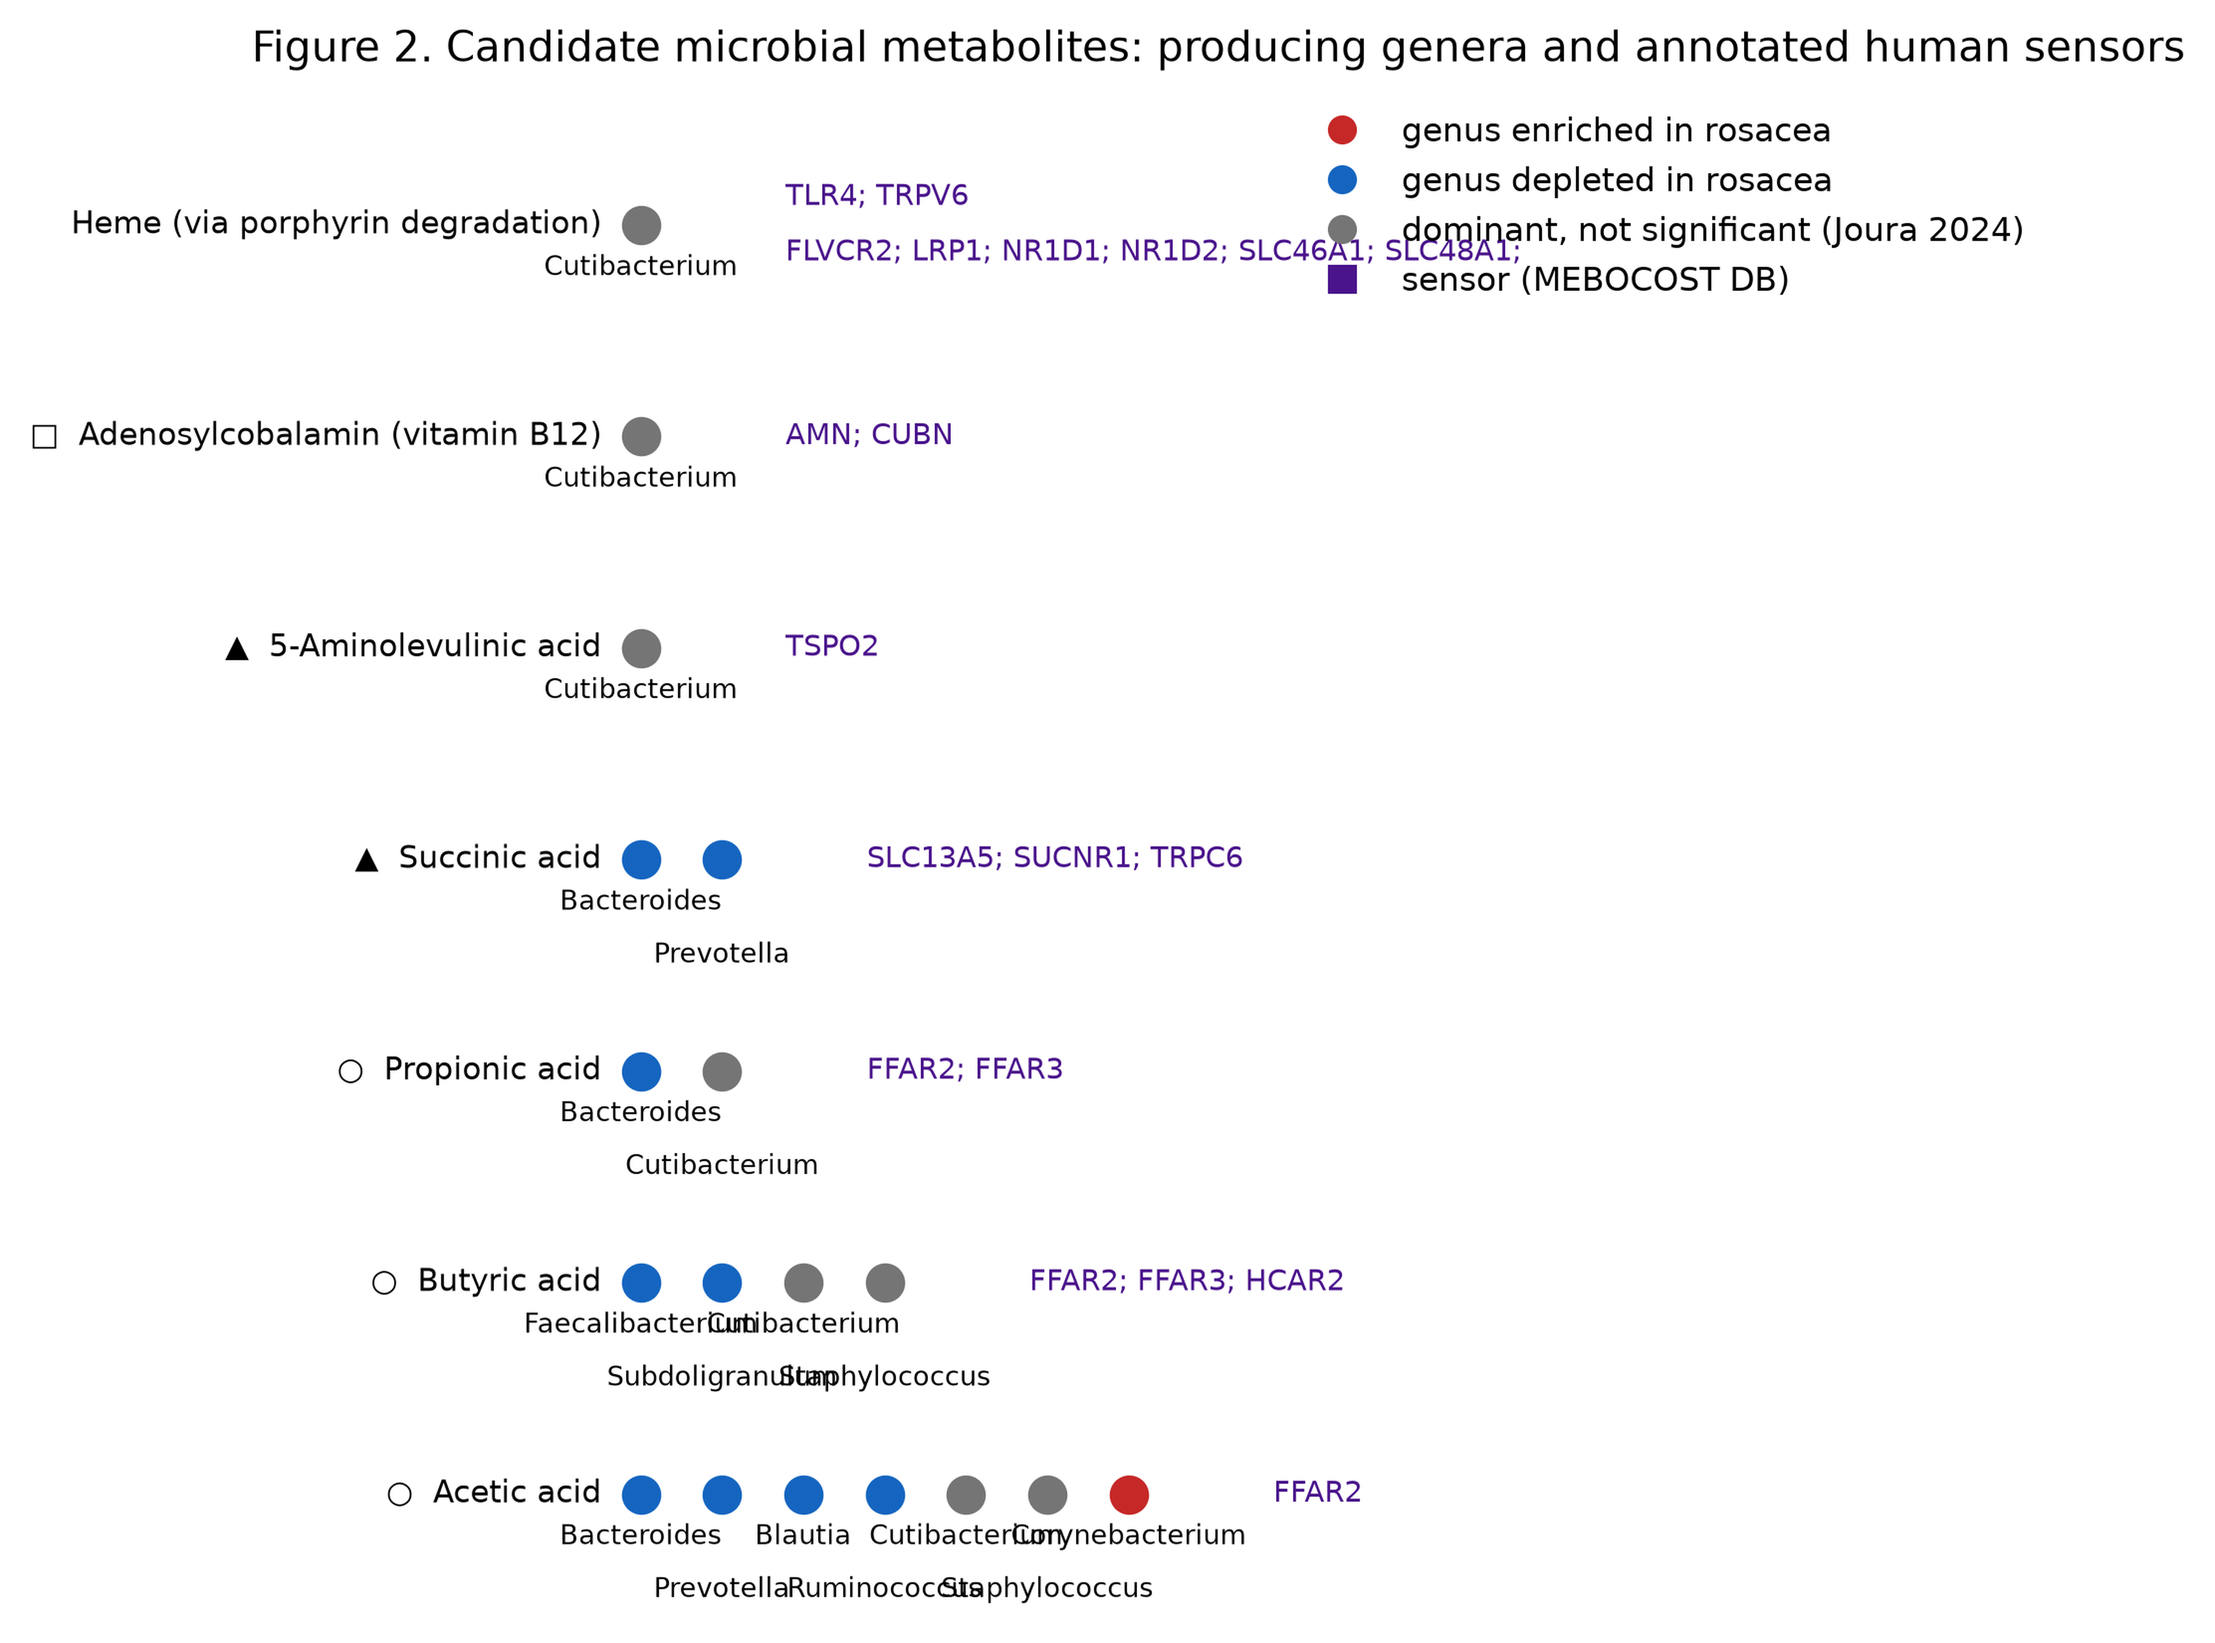
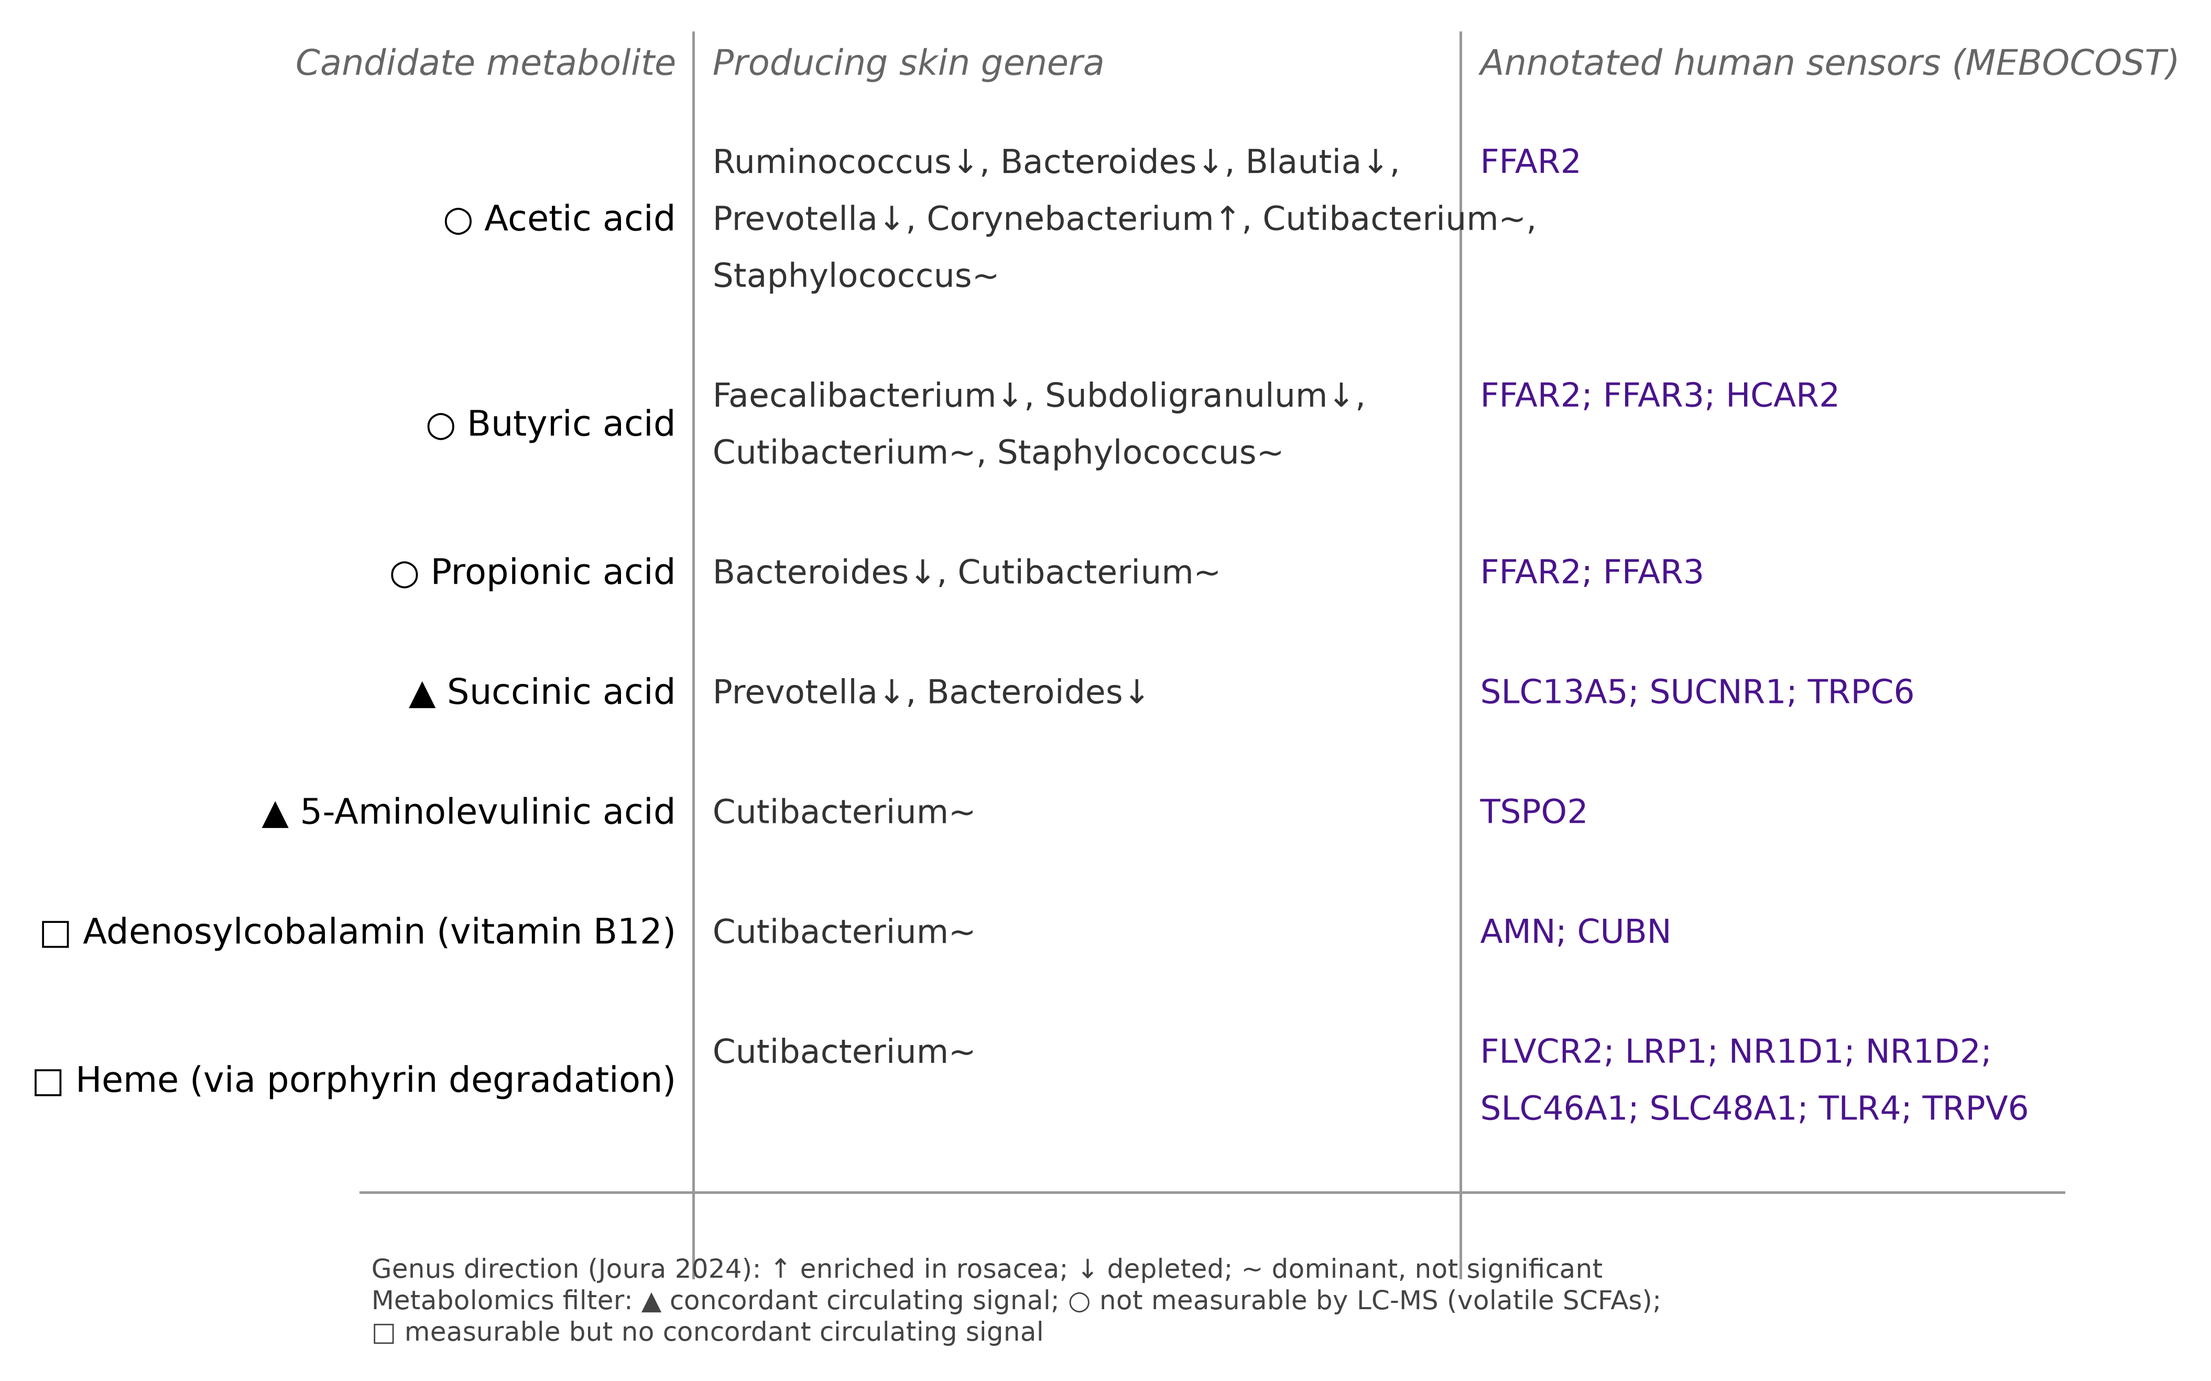
Fig2 text-flow table layout; Fig3 4pt labels; PCoA exhaustive repel

diff --git a/scripts/figures/fig3_candidates.py b/scripts/figures/fig3_candidates.py
@@ -1,85 +1,77 @@
 #!/usr/bin/env python3
-"""fig3_candidates.py — Figure 3: candidate microbial metabolites -> sensors, per producing genus
-Data: output/m2_microbiome/genus_metabolite_sensor_evidence.tsv (all PMIDs verified)
+"""fig3_candidates.py — Figure 2: candidate microbial metabolites -> genera -> sensors.
+Text-flow layout: genera and sensors are wrapped text blocks (arrows encode
+differential direction), so overlaps are structurally impossible.
 """
 import matplotlib
 matplotlib.use("Agg")
 import matplotlib.pyplot as plt
-import csv
+import csv, textwrap
 
 rows = list(csv.DictReader(open("output/m2_microbiome/genus_metabolite_sensor_evidence.tsv"), delimiter="\t"))
 rows = [r for r in rows if r["metabolite_sensors_MEBOCOST"]]
-
-# direction colors for genera
-dir_color = {"up": "#c62828", "down": "#1565c0", "n.s.": "#757575"}
-genus_dir = {}
-for r in rows:
-    genus_dir[r["genus"]] = r["genus_direction_Joura2024"]
-
-# structure: metabolite -> (sensors, genera)
+genus_dir = {r["genus"]: r["genus_direction_Joura2024"] for r in rows}
 mets = {}
 for r in rows:
-    m = r["metabolite"]
-    mets.setdefault(m, {"sensors": set(), "genera": {}})
-    mets[m]["sensors"].add(r["metabolite_sensors_MEBOCOST"])
-    mets[m]["genera"].setdefault(r["genus"], r["genus_direction_Joura2024"])
+    mets.setdefault(r["metabolite"], {"sensors": set(), "genera": set()})
+    mets[r["metabolite"]]["sensors"].add(r["metabolite_sensors_MEBOCOST"])
+    mets[r["metabolite"]]["genera"].add(r["genus"])
+
+filter_status = {
+    "Acetic acid": ("○", "not measurable (volatile SCFA)"),
+    "Propionic acid": ("○", "not measurable (volatile SCFA)"),
+    "Butyric acid": ("○", "not measurable (volatile SCFA)"),
+    "Succinic acid": ("▲", "up in rosacea serum (Li 2025, log2FC = 0.50, P = 1e-4)"),
+    "5-Aminolevulinic acid": ("▲", "up in PPR plasma (Zhang 2025)"),
+    "Heme (via porphyrin degradation)": ("□", "no concordant circulating signal"),
+    "Adenosylcobalamin (vitamin B12)": ("□", "no concordant circulating signal"),
+}
+arrow_sym = {"up": "↑", "down": "↓", "n.s.": "~"}
 
 order = sorted(mets, key=lambda m: -len(mets[m]["genera"]))
 
-# metabolomics-filter status per candidate (per R3 comment)
-# ▲ concordant circulating signal; ○ not measurable by untargeted LC-MS (volatile SCFA); □ measurable, no concordant signal
-filter_status = {
-    "Acetic acid": ("\u25cb", "not measurable (volatile SCFA)"),
-    "Propionic acid": ("\u25cb", "not measurable (volatile SCFA)"),
-    "Butyric acid": ("\u25cb", "not measurable (volatile SCFA)"),
-    "Succinic acid": ("\u25b2", "up in rosacea serum (Li 2025, log2FC = 0.50, P = 1e-4)"),
-    "5-Aminolevulinic acid": ("\u25b2", "up in PPR plasma (Zhang 2025)"),
-    "Heme": ("\u25a1", "no concordant circulating signal"),
-    "Adenosylcobalamin (vitamin B12)": ("\u25a1", "no concordant circulating signal"),
-}
-
-fig, ax = plt.subplots(figsize=(7.2, 5.6), dpi=600)
-y = 0
-yt = {}
+# compute layout first
+line_h = 0.235
+rows_meta = []
 for m in order:
-    yt[m] = y
-    sym = filter_status.get(m, ("", ""))[0]
-    ax.text(-0.55, y, f"{sym}  {m}", ha="right", va="center", fontsize=7.5)
     gen = sorted(mets[m]["genera"], key=lambda g: -genus_dir[g].count("d"))
-    x = 0
-    for i, g in enumerate(gen):
-        d = mets[m]["genera"][g]
-        ax.scatter(x, y, s=100, color=dir_color[d], zorder=3,
-                   edgecolors="white", linewidths=0.5)
-        # staggered two-level horizontal labels, centered under each circle
-        lvl = -0.22 if i % 2 == 0 else -0.62
-        ax.text(x, y + lvl, g, ha="center", va="top", fontsize=6.5)
-        x += 1.15
-    sens = sorted(mets[m]["sensors"])
-    import textwrap
-    sens_label = "; ".join(sens)
-    wrapped = textwrap.wrap(sens_label, width=46)
-    xs = x + 0.9
-    n = len(wrapped)
-    for i, line in enumerate(wrapped):
-        off = (i - (n - 1) / 2) * 0.42
-        ax.text(xs, y + off, line, fontsize=7, color="#4a148c", va="center", ha="left")
-    y += 1.6
+    gen_str = ", ".join(f"{g}{arrow_sym[genus_dir[g]]}" for g in gen)
+    sens_str = "; ".join(sorted(mets[m]["sensors"]))
+    gen_lines = textwrap.wrap(gen_str, width=50)
+    sen_lines = textwrap.wrap(sens_str, width=32)
+    n = max(len(gen_lines), len(sen_lines), 1)
+    rows_meta.append((m, gen_lines, sen_lines, n))
+total = sum(n*line_h + 0.26 for m,_,_,n in rows_meta) + 0.75  # header + legend
+fig, ax = plt.subplots(figsize=(7.0, total), dpi=600)
+ax.set_xlim(0, 7.0); ax.set_ylim(0, total); ax.axis("off")
 
-ax.set_ylim(-0.9, y - 0.55)
-ax.set_xlim(-5.5, 20)
-ax.axis("off")
-# legend
-for lab, c in [("genus up in rosacea", "#c62828"), ("genus down in rosacea", "#1565c0"),
-               ("dominant, not significant", "#757575")]:
-    pass
-import matplotlib.lines as mlines
-h1 = mlines.Line2D([], [], marker="o", ls="", color="#c62828", label="genus enriched in rosacea")
-h2 = mlines.Line2D([], [], marker="o", ls="", color="#1565c0", label="genus depleted in rosacea")
-h3 = mlines.Line2D([], [], marker="o", ls="", color="#757575", label="dominant, not significant (Joura 2024)")
-h4 = mlines.Line2D([], [], marker="s", ls="", color="#4a148c", label="sensor (MEBOCOST DB)")
-ax.legend(handles=[h1, h2, h3, h4], loc="upper right", fontsize=8, frameon=False)
-ax.set_title("Figure 2. Candidate microbial metabolites: producing genera and annotated human sensors", fontsize=10, loc="left")
-plt.tight_layout()
-plt.savefig("output/figures/Fig3_candidate_metabolites.png", bbox_inches="tight", dpi=300)
-print("Fig3 saved")
+# columns (inches): name 0-1.35 | genera 1.5-4.55 | sensors 4.7-7.2
+y = total - 0.55
+for m, gen_lines, sen_lines, n in rows_meta:
+    sym = filter_status.get(m, ("", ""))[0]
+    # metabolite name
+    ax.text(1.3, y - (n-1)*line_h/2, f"{sym} {m}", ha="right", va="center", fontsize=8)
+    # genera
+    for i, line in enumerate(gen_lines):
+        ax.text(1.45, y - i*line_h, line, ha="left", va="center", fontsize=7.5, color="#333333")
+    # sensors
+    for i, line in enumerate(sen_lines):
+        ax.text(4.6, y - i*line_h, line, ha="left", va="center", fontsize=7.5, color="#4a148c")
+    y -= n*line_h + 0.26
+
+# column headers
+ax.text(1.3, total-0.18, "Candidate metabolite", ha="right", fontsize=8, style="italic", color="#666666")
+ax.text(1.45, total-0.18, "Producing skin genera", ha="left", fontsize=8, style="italic", color="#666666")
+ax.text(4.6, total-0.18, "Annotated human sensors (MEBOCOST)", ha="left", fontsize=8, style="italic", color="#666666")
+ax.axhline(y + 0.16, color="#999999", lw=0.6)
+ax.axvline(1.37, color="#999999", lw=0.6)
+ax.axvline(4.52, color="#999999", lw=0.6)
+
+# legend at bottom
+leg_y = y - 0.1
+ax.text(0.05, leg_y, "Genus direction (Joura 2024): ↑ enriched in rosacea; ↓ depleted; ~ dominant, not significant\n"
+        "Metabolomics filter: ▲ concordant circulating signal; ○ not measurable by LC-MS (volatile SCFAs);\n"
+        "□ measurable but no concordant circulating signal",
+        fontsize=6, va="top", ha="left", color="#444444")
+plt.savefig("output/figures/Fig3_candidate_metabolites.png", dpi=600, bbox_inches="tight")
+print("Fig2 saved (text-flow layout)")
